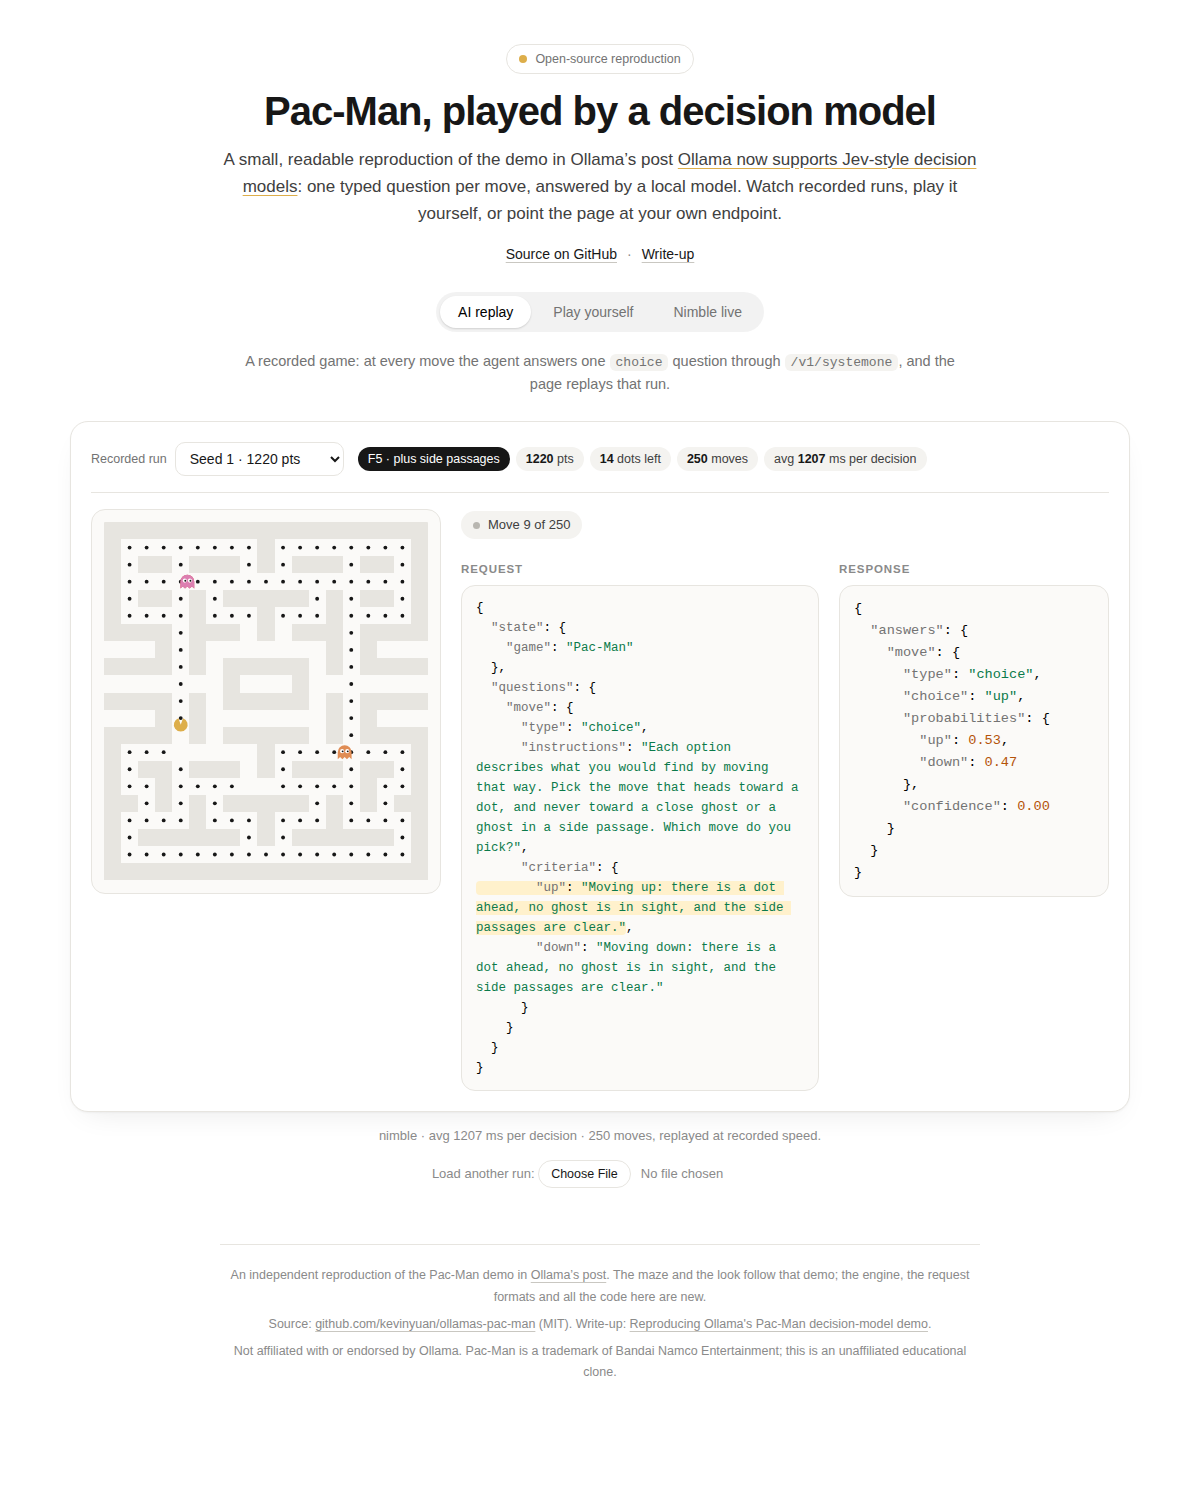
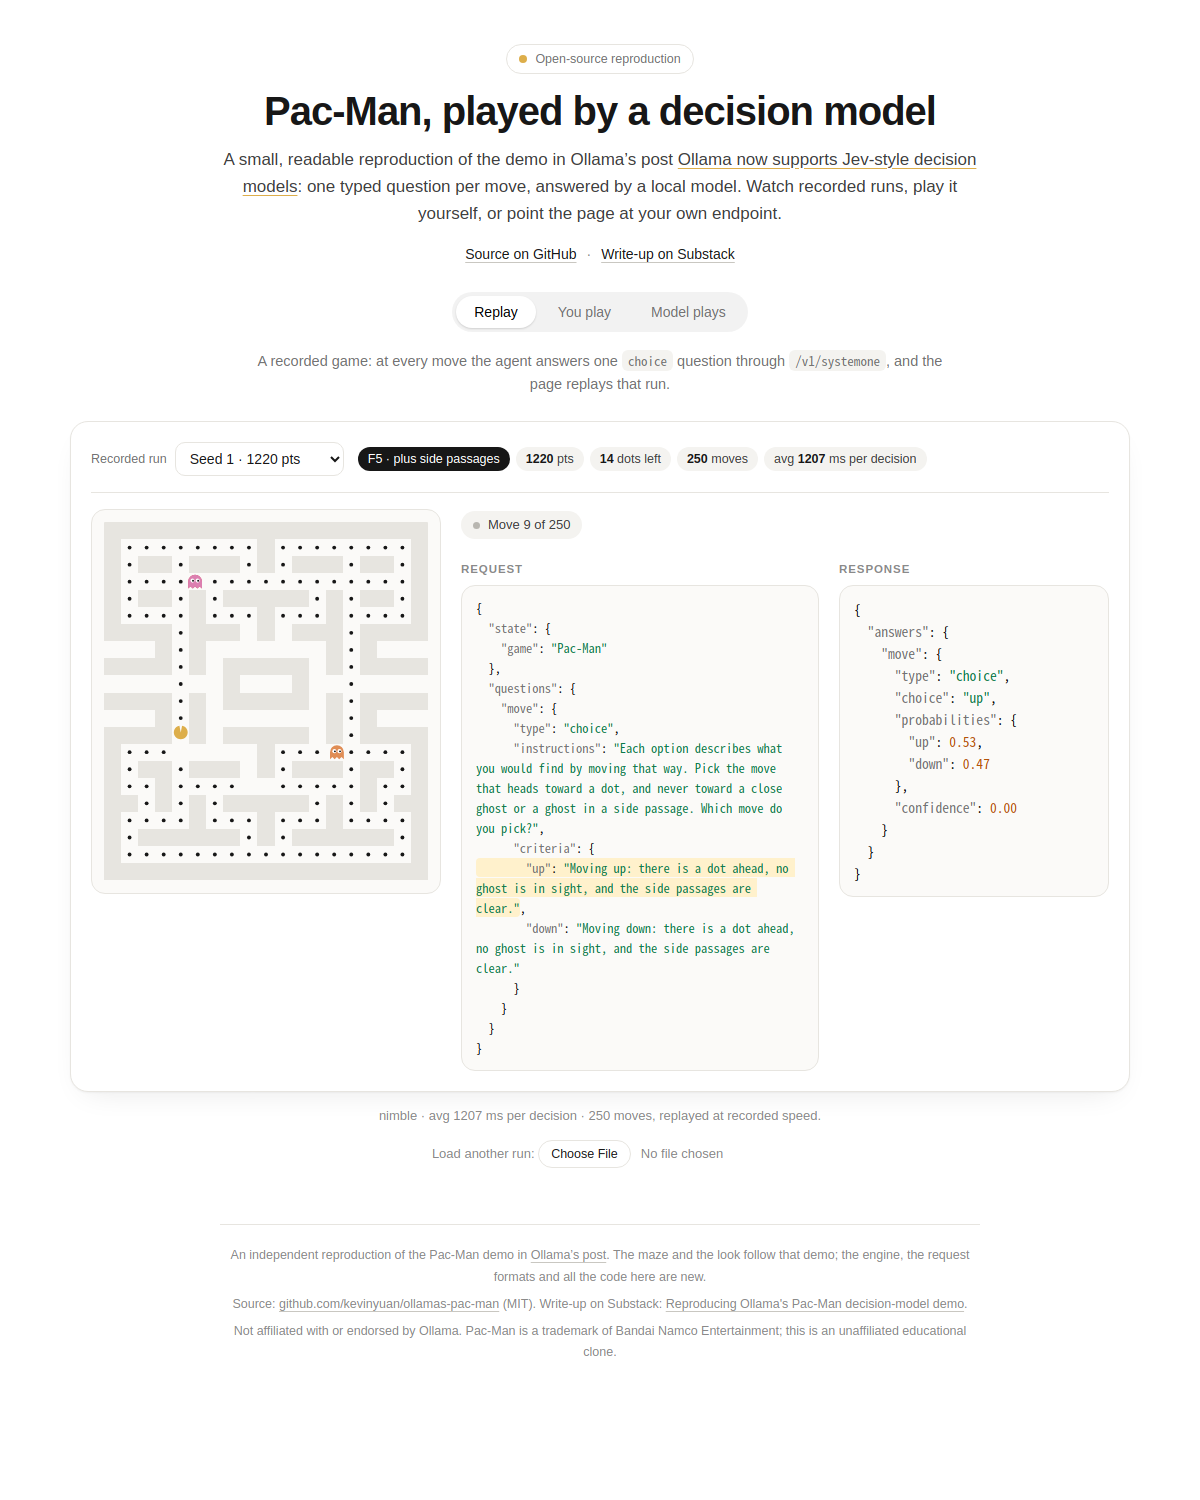
Rename tabs to Replay / You play / Model plays and add a demo GIF that switches through all three

diff --git a/docs/substack-post.html b/docs/substack-post.html
@@ -59,7 +59,7 @@ article a{color:inherit}
 <pre class="json"><code>{ &quot;answers&quot;: { &quot;move&quot;: { &quot;choice&quot;: &quot;up&quot;, &quot;probabilities&quot;: { &quot;up&quot;: 0.53, &quot;down&quot;: 0.47 }, &quot;confidence&quot;: 0.00 } } }</code></pre>
 <p>Both options read the same here, and the probabilities came out at 0.53 and 0.47. With nothing to separate the options, the model has no basis for a preference, so whatever distinguishes them has to be in the option text.</p>
 <h2 id="what-i-built">What I built</h2>
-<p>The project has a small Pac-Man engine in Python, a JavaScript port that follows the same rules, and a breadth-first-search (BFS) player as a reference. A browser page has three tabs: it replays recorded runs with each request shown next to its response, it lets you play yourself, and it can drive the game with your own Ollama endpoint. The page is plain HTML and JavaScript, so nothing needs to be deployed. Every request is logged, and a finished game can be replayed deterministically, which let me work out why each life was lost.</p>
+<p>The project has a small Pac-Man engine in Python, a JavaScript port that follows the same rules, and a breadth-first-search (BFS) player as a reference. A browser page has three tabs: Replay shows recorded runs with each request next to its response, You play lets you play it yourself, and Model plays drives the game with your own Ollama endpoint. The page is plain HTML and JavaScript, so nothing needs to be deployed. Every request is logged, and a finished game can be replayed deterministically, which let me work out why each life was lost.</p>
 <p>I used <code>nimble</code>, the 9B decision model named in the post, through Ollama 0.35 on a MacBook Air. A decision takes about 1.2 s there instead of 91 ms. The post's figure comes from different hardware, and I cannot separate the hardware from anything else. The difference does not affect the results below, because the game is turn-based: the ghosts wait for the model, so a slow answer cannot cost a life.</p>
 <p>Scoring is +10 per dot and −50 per catch, with three lives. The game in the post comes to about 1,180 under these rules (133 of 150 dots and three catches). Its ghosts move differently from mine, so I treat that number as context and not as a target.</p>
 <h2 id="experiment-1-the-board-as-text">Experiment 1: the board as text</h2>
@@ -104,7 +104,7 @@ article a{color:inherit}
 <h2 id="limits">Limits</h2>
 <p>Each model variant has three games (the rules have 20 or more), with one model, one maze, and ghost behavior I wrote myself. Since I tried only a few wordings, every number is a lower bound on what a better prompt could achieve. I also do not know what request the demo in the post used, so none of this describes how Ollama built it.</p>
 <h2 id="try-it">Try it</h2>
-<p>Everything runs in the browser. Clone <a href="https://github.com/kevinyuan/ollamas-pac-man">the repository</a> (MIT), serve the <code>web/</code> folder, and open the Nimble live tab to drive the game with your own endpoint, or open the replay tab to read the requests. You need <code>ollama pull nimble</code>, and <code>OLLAMA_ORIGINS</code> must be set for any page that is not served from <code>localhost</code>; the page explains how. If you find a wording that does better than mine, I would like to see it.</p>
+<p>Everything runs in the browser. Clone <a href="https://github.com/kevinyuan/ollamas-pac-man">the repository</a> (MIT), serve the <code>web/</code> folder, and open the Model plays tab to drive the game with your own endpoint, or open the Replay tab to read the requests. You need <code>ollama pull nimble</code>, and <code>OLLAMA_ORIGINS</code> must be set for any page that is not served from <code>localhost</code>; the page explains how. If you find a wording that does better than mine, I would like to see it.</p>
 <p><em>Thanks to Ollama for the post this reproduces. This is an unaffiliated project, and Pac-Man is a trademark of Bandai Namco Entertainment.</em></p>
 
   </article>

diff --git a/web/index.html b/web/index.html
@@ -23,9 +23,9 @@
     <p class="links"><a href="https://github.com/kevinyuan/ollamas-pac-man" target="_blank" rel="noopener">Source on GitHub</a><span aria-hidden="true">·</span><a href="https://kevinyuan1.substack.com/p/reproducing-ollamas-pac-man-decision" target="_blank" rel="noopener">Write-up on Substack</a></p>
   </header>
   <div class="tabs" role="tablist">
-    <button type="button" role="tab" data-tab="replay" aria-selected="true">AI replay</button>
-    <button type="button" role="tab" data-tab="play" aria-selected="false">Play yourself</button>
-    <button type="button" role="tab" data-tab="live" aria-selected="false">Nimble live</button>
+    <button type="button" role="tab" data-tab="replay" aria-selected="true">Replay</button>
+    <button type="button" role="tab" data-tab="play" aria-selected="false">You play</button>
+    <button type="button" role="tab" data-tab="live" aria-selected="false">Model plays</button>
   </div>
   <p class="lede" data-lede>A recorded game: at every move the agent answers one
   <code>choice</code> question through <code>/v1/systemone</code>, and the page replays that run.</p>
@@ -50,7 +50,7 @@
   <figure class="fig" data-play hidden>
     <div class="box game">
       <div class="game-grid">
-        <svg class="maze" data-play-maze viewBox="0 0 304 336" role="img" aria-label="Pac-Man, play yourself"></svg>
+        <svg class="maze" data-play-maze viewBox="0 0 304 336" role="img" aria-label="Pac-Man, played by you"></svg>
         <div>
           <div class="top"><span class="status" data-play-status>Press an arrow key to start</span><button type="button" class="btn" data-play-restart>Restart</button></div>
           <dl class="stats mono">

diff --git a/web/tabs.js b/web/tabs.js
@@ -1,4 +1,4 @@
-/* Tab switching: AI replay / Play yourself / Nimble live. Other scripts listen for the "pactab" event to pause. */
+/* Tab switching: Replay / You play / Model plays. Other scripts listen for the "pactab" event to pause. */
 (function () {
   "use strict";
   var panels = { replay: document.querySelector("[data-pacman]"), play: document.querySelector("[data-play]"), live: document.querySelector("[data-live]") };

diff --git a/web/live.js b/web/live.js
@@ -1,4 +1,4 @@
-/* "Nimble live": the game runs here in the browser; every move is decided by an AI endpoint you provide
+/* "Model plays": the game runs here in the browser; every move is decided by an AI endpoint you provide
  * (Ollama's /v1/systemone). Nothing is sent anywhere else. Needs panels.js, board.js, game.js, prompts.js. */
 (function () {
   "use strict";

diff --git a/tools/build_single.py b/tools/build_single.py
@@ -1,7 +1,7 @@
 """Bundle web/ into one self-contained HTML file (no server needed):  python3 tools/build_single.py [out.html]
 
-Inlines the stylesheet and every script and embeds a sample run (with requests) for the replay tab.
-Open the file directly, or serve it from anywhere; the live tab only needs an AI endpoint URL.
+Inlines the stylesheet and every script and embeds a sample run (with requests) for the Replay tab.
+Open the file directly, or serve it from anywhere; the Model plays tab only needs an AI endpoint URL.
 """
 import re
 import sys

diff --git a/tools/make_runs.py b/tools/make_runs.py
@@ -1,4 +1,4 @@
-"""Write web/runs.json: the list of recorded runs the replay tab offers.  python3 tools/make_runs.py
+"""Write web/runs.json: the list of recorded runs the Replay tab offers.  python3 tools/make_runs.py
 
 Each web/*.json log is replayed (same seed, same moves) to get its final score, so the numbers shown on the page
 are the engine's own. Seeds come from the file name (..._s3.json); game.json and game_nimble.json are seed 1.

diff --git a/docs/substack-post.md b/docs/substack-post.md
@@ -34,7 +34,7 @@ Both options read the same here, and the probabilities came out at 0.53 and 0.47
 
 ## What I built
 
-The project has a small Pac-Man engine in Python, a JavaScript port that follows the same rules, and a breadth-first-search (BFS) player as a reference. A browser page has three tabs: it replays recorded runs with each request shown next to its response, it lets you play yourself, and it can drive the game with your own Ollama endpoint. The page is plain HTML and JavaScript, so nothing needs to be deployed. Every request is logged, and a finished game can be replayed deterministically, which let me work out why each life was lost.
+The project has a small Pac-Man engine in Python, a JavaScript port that follows the same rules, and a breadth-first-search (BFS) player as a reference. A browser page has three tabs: Replay shows recorded runs with each request next to its response, You play lets you play it yourself, and Model plays drives the game with your own Ollama endpoint. The page is plain HTML and JavaScript, so nothing needs to be deployed. Every request is logged, and a finished game can be replayed deterministically, which let me work out why each life was lost.
 
 I used `nimble`, the 9B decision model named in the post, through Ollama 0.35 on a MacBook Air. A decision takes about 1.2 s there instead of 91 ms. The post's figure comes from different hardware, and I cannot separate the hardware from anything else. The difference does not affect the results below, because the game is turn-based: the ghosts wait for the model, so a slow answer cannot cost a life.
 
@@ -100,6 +100,6 @@ Each model variant has three games (the rules have 20 or more), with one model, 
 
 ## Try it
 
-Everything runs in the browser. Clone [the repository](https://github.com/kevinyuan/ollamas-pac-man) (MIT), serve the `web/` folder, and open the Nimble live tab to drive the game with your own endpoint, or open the replay tab to read the requests. You need `ollama pull nimble`, and `OLLAMA_ORIGINS` must be set for any page that is not served from `localhost`; the page explains how. If you find a wording that does better than mine, I would like to see it.
+Everything runs in the browser. Clone [the repository](https://github.com/kevinyuan/ollamas-pac-man) (MIT), serve the `web/` folder, and open the Model plays tab to drive the game with your own endpoint, or open the Replay tab to read the requests. You need `ollama pull nimble`, and `OLLAMA_ORIGINS` must be set for any page that is not served from `localhost`; the page explains how. If you find a wording that does better than mine, I would like to see it.
 
 *Thanks to Ollama for the post this reproduces. This is an unaffiliated project, and Pac-Man is a trademark of Bandai Namco Entertainment.*

diff --git a/README.md b/README.md
@@ -13,7 +13,7 @@ board changes how well the model plays.
 
 **Write-up (on Substack):** [Reproducing Ollama's Pac-Man decision-model demo](https://kevinyuan1.substack.com/p/reproducing-ollamas-pac-man-decision)
 
-![The replay tab: the board, the request sent to the model and its response, one decision per move](docs/img/replay.gif)
+![The three tabs: a recorded run, playing it yourself, and a live model on your own endpoint](docs/img/demo.gif)
 
 > **Independent project.** Not affiliated with or endorsed by Ollama. The maze layout and the look of the page follow
 > the demo in the post; the engine, the request formats and all code here are new. Pac-Man is a trademark of
@@ -32,9 +32,9 @@ The page has three tabs:
 
 | Tab | What it does |
 |---|---|
-| **AI replay** | Replays recorded runs. Pick a run (grouped by how the board was described) and read, for every move, the **request** sent to the model beside the **response**. The option the model chose is highlighted. |
-| **Play yourself** | The same game with the keyboard (arrows / WASD) or touch. |
-| **Nimble live** | A model drives. Enter your own endpoint, model name and request format; each move is a live request you can read. |
+| **Replay** | Replays recorded runs. Pick a run (grouped by how the board was described) and read, for every move, the **request** sent to the model beside the **response**. The option the model chose is highlighted. |
+| **You play** | The same game with the keyboard (arrows / WASD) or touch. |
+| **Model plays** | A model drives. Enter your own endpoint, model name and request format; each move is a live request you can read. |
 
 ### Live mode
 
@@ -44,7 +44,7 @@ You need [Ollama](https://ollama.com) 0.35 or newer and a decision model:
 ollama pull nimble
 ```
 
-Open the **Nimble live** tab, keep `http://localhost:11434`, press *Test connection*, then *Start*.
+Open the **Model plays** tab, keep `http://localhost:11434`, press *Test connection*, then *Start*.
 
 Browsers enforce CORS, and Ollama only accepts pages served from `http://localhost` by default. If you open the
 single file straight from disk (the browser then sends `Origin: null`) or host the page on another domain, start

diff --git a/README.zh-CN.md b/README.zh-CN.md
@@ -11,7 +11,7 @@
 
 **文章（发布在 Substack）：** [Reproducing Ollama's Pac-Man decision-model demo](https://kevinyuan1.substack.com/p/reproducing-ollamas-pac-man-decision)
 
-![回放页：棋盘、发给模型的请求、模型的回答，逐步对应](docs/img/replay.gif)
+![三个标签：回放录好的对局、自己玩、让模型在你的 endpoint 上实时玩](docs/img/demo.gif)
 
 > **独立项目**，与 Ollama 无隶属关系，也未获其认可。迷宫布局和页面外观参照了文章里的演示；引擎、请求格式和全部代码都是新写的。
 > Pac-Man 是 Bandai Namco 的商标，本项目只是非官方的教学性克隆。
@@ -25,8 +25,8 @@ python3 -m http.server -d web 8765     # 打开 http://localhost:8765/
 python3 tools/build_single.py          # 或生成单文件 dist/pacman.html
 ```
 
-页面三个标签：**AI replay**（回放录好的对局，并排看每一步的请求和回答）、**Play yourself**（自己玩）、
-**Nimble live**（填入自己的 Ollama 地址，让模型实时玩，每一步的请求都能看到）。
+页面三个标签：**Replay**（回放录好的对局，并排看每一步的请求和回答）、**You play**（自己玩）、
+**Model plays**（填入自己的 Ollama 地址，让模型实时玩，每一步的请求都能看到）。
 
 实时模式需要 Ollama 0.35 或更新版本和决策模型（`ollama pull nimble`）。浏览器有跨域限制，Ollama 默认只接受
 `http://localhost` 页面；直接双击打开 html 文件或托管在别的域名时，需要设置 `OLLAMA_ORIGINS`
